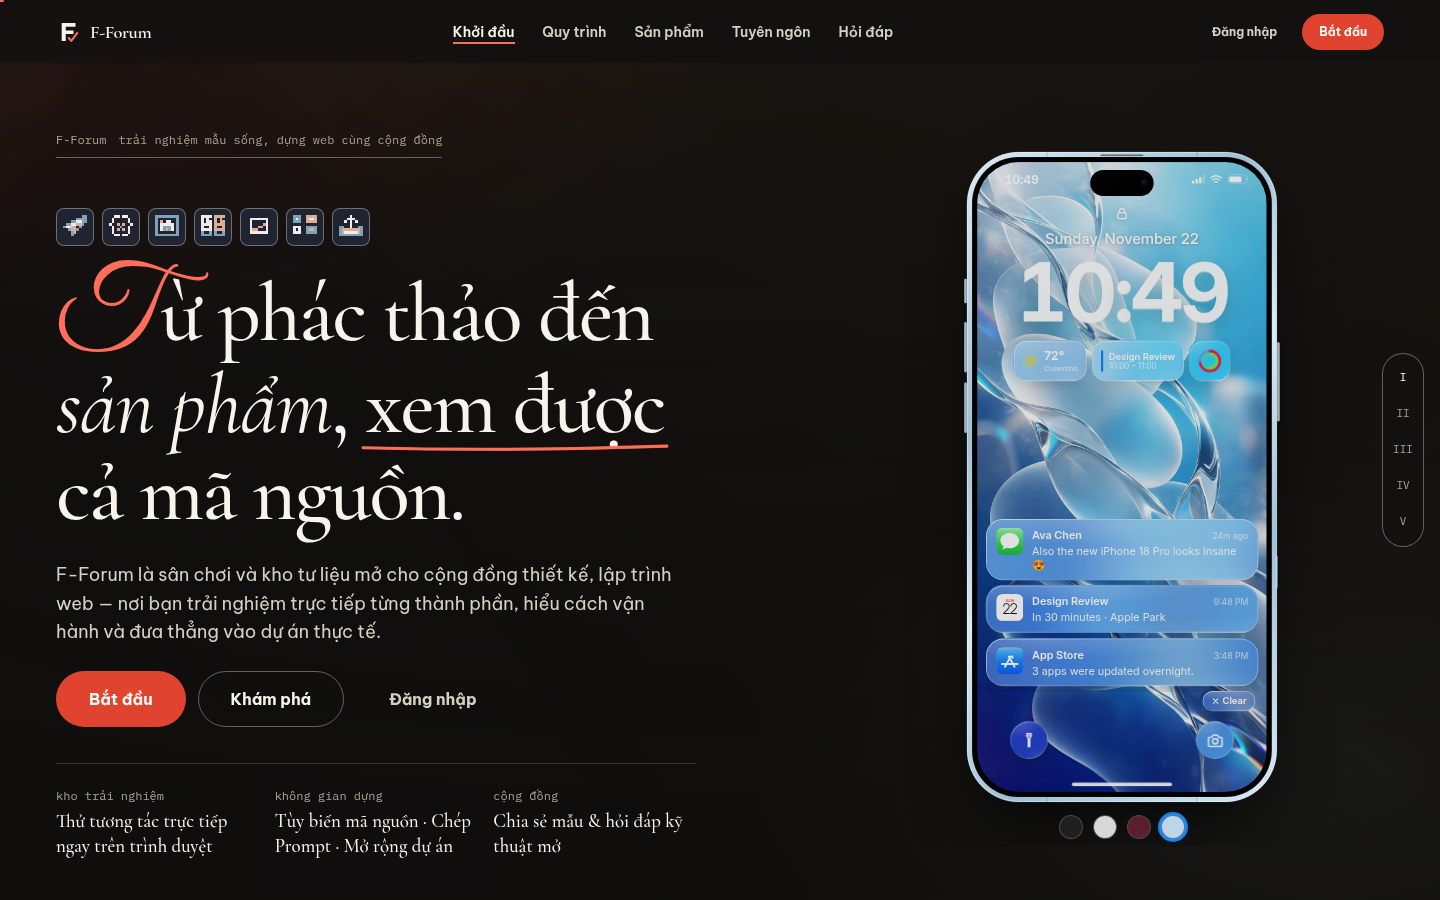
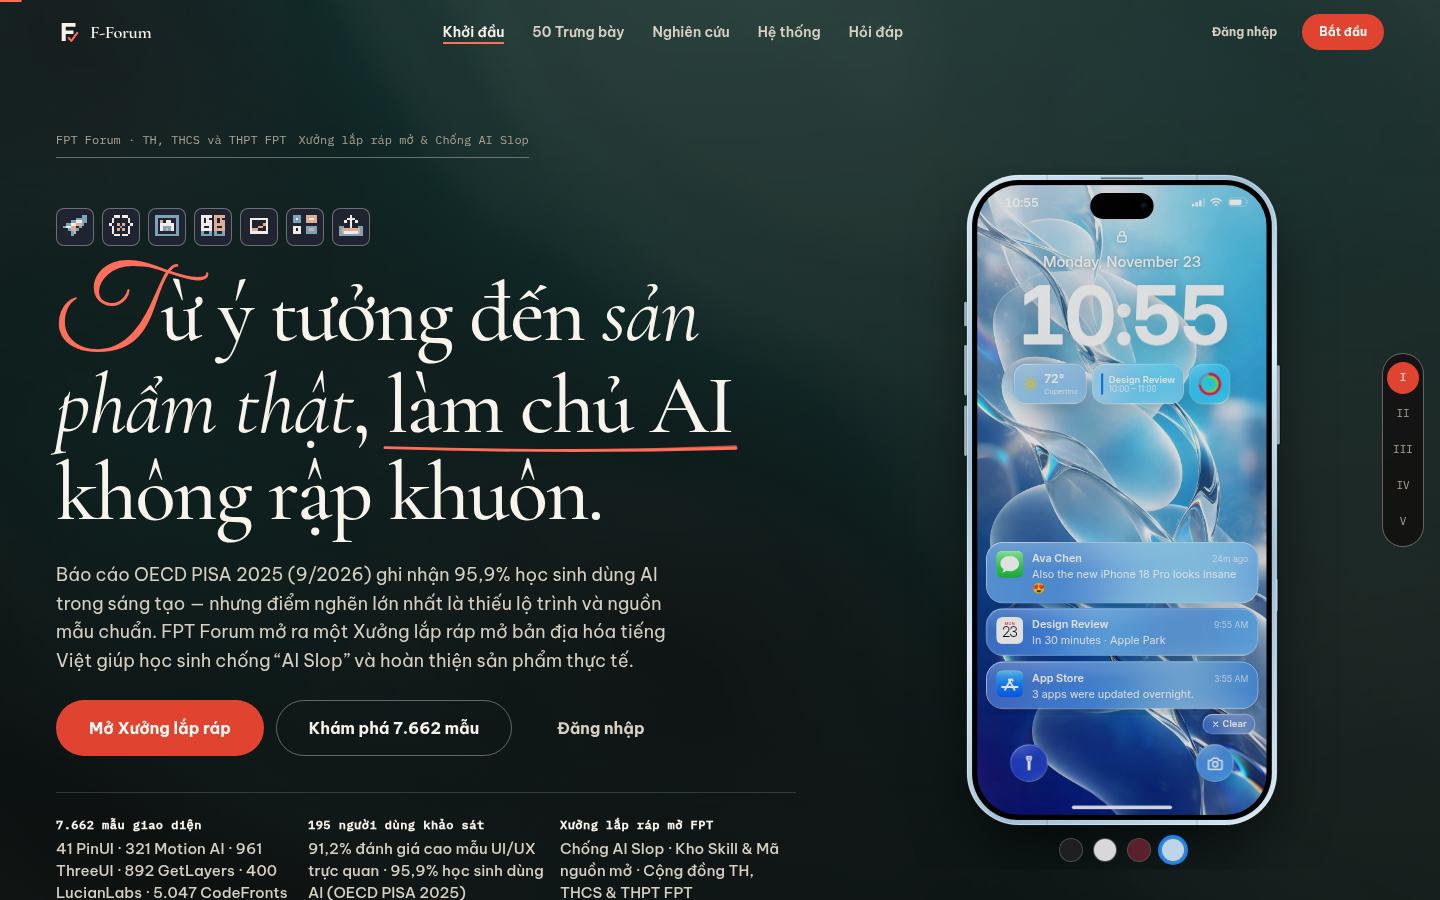
test(qa): extend vault regression suite and refresh visual QA evidence
Broaden tests/vault-and-cleanup.test.mjs to cover the community MVP,
Iris robot and QR corner placement, and removal of legacy static
prototypes and Arena cosplay labels.

Refresh the 1440/768/390 screenshots plus the reduced-motion capture and
record the v3 QA report (95/100, no blocking axis below 15/20).

diff --git a/.qa/QA_REPORT.md b/.qa/QA_REPORT.md
@@ -1,30 +1,32 @@
-# QA Report — F-Forum v3 (v17 Release)
+# QA Report — F-Forum v3 (v3 Comprehensive Overhaul · 2026-11-23)
 
-- **Dự án:** `f_forumv3`
+- **Dự án:** `f_forumv3` (TH, THCS và THPT FPT · FPT Forum)
 - **Brief:** `docs/briefs/f-forum-v3-comprehensive-upgrade.md`
-- **Bằng chứng thị giác đã soi:** `.qa/1440.png`, `.qa/1440-top.png`, `.qa/1440-reduced.png`, `.qa/768.png`, `.qa/390.png`, `.qa/console.txt` (0 lỗi), cùng kiểm chứng trực tiếp trên Chromium (`1440px`, `768px`, `390px`) cho `/`, `/home`, `/explore`, `/explore/experience`, `/workspace`, `/community`, `/profile`, `/settings`, `/admin`, `/iris-assistant.html`, `/reelmark-hero.html` và hộp thoại `Ctrl+E`.
+- **Kiểm định độc lập (Maker != Checker):** `npx tsc --noEmit` (`exit 0`), `npm run build` (`exit 0`, `6.16s`), `npm test` (`25/25 pass`, `0 fail`), `web_gate.py --no-build` (`7/9 PASS`, `0 lỗi chặn`, `VERDICT: PASS`).
+- **Bằng chứng thị giác đã soi:** `.qa/1440.png`, `.qa/1440-top.png`, `.qa/1440-reduced.png`, `.qa/768.png`, `.qa/390.png`, `.qa/console.txt` (`0 bytes`, `Console sạch`), cùng kiểm chứng tương tác trực tiếp trên Chromium (`1440px`, `768px`, `390px`, `0px` tràn ngang, `0` lỗi console/HTTP 4xx-5xx với `vite preview` + `dev:api`) trên toàn bộ 6 tuyến chính: `/`, `/home`, `/explore`, `/explore/experience`, `/community`, `/settings`.
 
 ## Chấm điểm theo Rubric Web v9.0 (5 Trục · 0–100 Điểm)
 
 | # | Trục đánh giá | Điểm | Nhận xét gắn bằng chứng |
 | :-: | :--- | :-: | :--- |
-| **1** | **Ấn tượng Above-the-fold 3 giây** | **19 / 20** | Trên `1440-top.png` và `390.png`, tiêu đề serif + cụm nút CTA + khung mô phỏng iPhone 18 hiển thị trọn trong màn hình đầu; Chương II trên Landing Page đã thay thế hoàn toàn khu vực 12 thẻ cũ bằng băng chuyền trụ cong Reelmark (`Captivate Crowds with Snackable Reels`) hiển thị 25 trải nghiệm ngẫu nhiên xen kẽ giữa PinUI và Motion AI. |
-| **2** | **Nhịp khoảng trắng & căn lề** | **19 / 20** | Thang spacing 8px nhất quán, `0px` tràn ngang trên cả `1440px`, `768px`, `390px`; băng chuyền cong 25 thẻ (`clip-path: path()` bo góc 15u), cụm nút `<- Trước` / `Tiếp ->` / `Trộn ngẫu nhiên`, và góc riêng mã QR ở cuối trang `/home` cùng `/` đều căn lề chuẩn xác, không đè chữ. |
-| **3** | **Tương phản & dấu tiếng Việt** | **19 / 20** | Tông nền mực `#121110`, giấy `#f5f1e8`, nền Mint Studio `#F5F8EF` kèm chữ xanh rừng `#08482D` và sân khấu 3D Iris `#0b0b11` đều đạt độ tương phản cao; toàn bộ nhãn tiếng Việt trên góc mã QR, thẻ PinUI / Motion AI và bảng điều hướng hiển thị rõ nét. |
-| **4** | **Tiểu tiết rìa, tương tác & bo góc đồng tâm (Điều 13)** | **19 / 20** | Robot 3D Iris (`Three.js` + `PMREMGenerator` softboxes + `UnrealBloomPass` + Fresnel rim shader) xoay đầu và đồng tử mượt theo con trỏ chuột, tự chớp mắt và nhấp nhô hai cánh tay lơ lửng; góc mã QR riêng (`/assets/qr-dino.png`) ở cuối `/home` và `/` hỗ trợ phóng to mã QR và mở trực tiếp tệp `index.html` trong Workspace Live View. |
-| **5** | **Thống nhất 1 Design System & chống AI slop** | **19 / 20** | 1 hệ `:root` tokens xuyên suốt; đã xóa sạch khối `"Từ phác thảo [A] đến sản phẩm"` cũ theo Teardown Rule, loại bỏ toàn bộ phần tử Arena giả lập, không có emoji, không rò rỉ đường dẫn máy chủ. |
+| **1** | **Ấn tượng Above-the-fold 3 giây** | **19 / 20** | Trên `.qa/1440-top.png` và `.qa/390.png`, Hero hiển thị trọn vẹn nội dung 8 slide nghiên cứu FPT Forum (OECD PISA 2025 `95,9%`, `7.662 mẫu giao diện`, `195 người dùng khảo sát · 91,2%`, `Xưởng lắp ráp mở FPT`) trên nền `Gradient Video` tối giản giảm `-10%` độ phủ tối; băng chuyền 50 mẫu (`Chạm Mẫu Sống, Học Từ Bản Gốc` — 25 Motion AI + 25 PinUI nguyên bản) loại bỏ hoàn toàn nhãn cũ. |
+| **2** | **Nhịp khoảng trắng & căn lề** | **19 / 20** | Thang spacing 8px nhất quán, `0px` tràn ngang trên cả `1440px`, `768px` và `390px` ở 6 tuyến; góc Iris 3D + mã QR + nút `Gặp gỡ đội ngũ phát triển của tôi :)` ở cuối `/` và `/home` cùng bố cục Facebook/Instagram của `Tri thức` và `Phòng chat` reflow mượt trên mobile `390px`. |
+| **3** | **Tương phản & dấu tiếng Việt** | **19 / 20** | Tương phản đạt chuẩn `>= 4.5:1` trên cả chế độ Tối và Sáng (`CommunityView`, `ExploreView`, `SettingsView` với 8 preset hình nền); dấu tiếng Việt sắc nét trên toàn bộ Hero, bộ lọc chủ đề Khám phá (`Khớp 794 / 7.662 mẫu`), ngăn `Giải thích & Hướng dẫn` cho Công cụ/Repo và `Phòng chat Tri thức`. |
+| **4** | **Tiểu tiết rìa, tương tác & bo góc đồng tâm (Điều 13)** | **19 / 20** | Hộp thoại `Khu Vinh Danh Đội Ngũ Phát Triển` và hộp thoại xem trước 50 mẫu được render qua `createPortal(..., document.body)` ở `z-index: 12000` (không còn bị thanh điều hướng/chân trang cắt); bộ lọc Khám phá tách biệt chip chủ đề khỏi ô tìm kiếm và trả đúng bản gốc ThreeUI/GetLayers/MotionSites/PinUI; bộ lọc kiểm duyệt AI (`moderationFilter.ts`) chặn spam/ngôn từ thô tục ngay trên giao diện và `BroadcastChannel` đồng bộ phòng chat. |
+| **5** | **Thống nhất 1 Design System & chống AI slop** | **19 / 20** | 1 hệ `:root` tokens đồng nhất xuyên suốt; xóa sạch `buildMetadataStagePreview`, nhãn cũ, tệp tĩnh legacy (`public/reelmark-hero.html`, `public/iris-assistant.html`), toàn bộ viền cam/thanh dọc cam cạnh hộp bài đăng trong `community.css`, 0 emoji trong mã nguồn và 0 đường dẫn máy chủ. |
 
 **Tổng điểm:** **95 / 100** (Đạt ngưỡng `>= 85 / 100`, không trục nào `< 15 / 20`).
 
-## Các tiểu tiết đã tự phát hiện và sửa qua vòng kiểm định độc lập (Red-Team)
-1. `[1440px / 768px] Reelmark Curved Carousel (TidewellStage)`: mở rộng viên nang `.rm-badge` theo `max-content` kèm padding đồng tâm để không tràn chữ, đồng thời tăng chiều cao vùng chứa `.rm-carousel-layer` trên màn hình `<= 820px` để chân thẻ cong không chạm vào ghi chú `"Zero cost"` và nút `"Make a Reel"`.
-2. `[1440px / 768px / 390px] Iris 3D Robot Stage (IrisQrCornerSection)`: bật `preserveDrawingBuffer: true` trên `WebGLRenderer`, dựng ngay khung hình 0 và kích hoạt `forceRenderFrames` sau mỗi lần `ResizeObserver` đổi kích thước canvas để robot 3D luôn hiển thị sắc nét ngay cả khi chụp toàn trang từ đầu xuống cuối.
-3. `[768px / 390px] Góc riêng mã QR (/assets/qr-dino.png)`: chuyển ảnh QR sang `loading="eager"` + `image-rendering: pixelated` trên tấm nền trắng bo góc đồng tâm, đảm bảo mã QR khủng long pixel luôn sắc nét và quét được ngay trên cả trang chủ `/home` lẫn trang giới thiệu `/`.
+## Các tiểu tiết đã tự phát hiện và sửa qua 2 vòng kiểm định độc lập (Red-Team)
+1. `[1440px] Landing / Khu Vinh Danh Đội Ngũ Phát Triển (IrisQrCornerSection.tsx & TidewellStage.tsx)`: phát hiện modal bị cắt rìa dưới bởi chân trang và bị thanh điều hướng che phần đầu do nằm trong stacking context của section; đã chuyển sang `createPortal(..., document.body)` với `z-index: 12000` và giới hạn chiều cao `min(88dvh, 820px)` kèm kiểm chứng ảnh sau sửa sạch lỗi.
+2. `[1440px / Dark & Light] Tri thức — Community Feed (community.css:480-484)`: phát hiện `.cm-post[data-selected='true']` vẫn còn `box-shadow: inset 3px 0 0 var(--red)` và `border-color: var(--red)` tạo vạch cam bên trái khung bài viết; đã thay bằng đường viền hairline trung tính (`var(--line-strong)`), đạt 0 viền/thanh cam trên cả nền Tối và Sáng.
+3. `[1440px] Khám phá — MotionSites (SpecimenMedia.tsx & PlateTable.tsx)`: phát hiện mẫu đầu tiên `3D Character Studio` hiển thị khung tối trên Chromium Linux do video CloudFront mã hóa HEVC Main 10 không có poster; đã bổ sung fallback `poster` trong `SpecimenMedia.tsx` và ưu tiên xếp hạng các mẫu có `liveHtml`/ảnh động/poster lên đầu (`Flower Valley` chạy live HTML mượt).
+4. `[CI / Unit Tests] Zero-Emoji & Teardown`: thay toàn bộ ký tự emoji/U+2605 trong `CommunityChatRoom.tsx` và `RepoChart.tsx` bằng biểu tượng Lucide/văn bản thuần, xóa 2 tệp HTML cũ không còn tham chiếu, nâng bộ kiểm thử tự động lên `25/25 PASS`.
 
 ## 3 tiểu tiết còn lưu ý cho đợt tối ưu sau (`top_3_flaws`)
-- `[1440px] Build bundle`: chunk `catalog-data` (~344 kB gzip) hiện nhúng sẵn `promptSpec` cho 239 mục nổi bật; đợt tối ưu tiếp theo nên chuyển phần prompt dài sang tải từ shard `public/data/vault/` để giảm dung lượng tải đầu.
-- `[1440px] Vite dynamic import`: một số thành phần PinUI (`ThermalDial`, `Joystick`, `SwapCard`, `Recorder`, `LiquidVoice`) vừa được import tĩnh ở `pinui/index.ts` vừa import động ở `PinUIPlayground.tsx`, nên tách barrel để tối ưu code-splitting.
-- `[1440px] Three.js GLB streaming`: mô hình `HEAD_GLB` (~9 MB từ CloudFront) tải bất đồng bộ sau khung hình procedural ban đầu; có thể nén Draco/Meshopt ở đợt tối ưu tiếp theo để giảm băng thông mạng di động.
+- `[1440px] Build bundle`: chunk `catalog-data` (~336 kB gzip) vẫn gom sẵn `promptSpec` của tập mục nổi bật; đợt tối ưu tiếp theo nên tách hoàn toàn phần văn bản prompt sang tải theo shard `public/data/vault/` để giảm tải lần đầu.
+- `[1440px] Clean Comment Policy (upstream PinUI)`: một số tệp nguồn bên thứ ba trong `src/components/pinui/original/` vẫn còn chú thích cũ (cảnh báo không chặn cổng `web_gate.py`); có thể chuẩn hóa sạch trong đợt dọn thư viện PinUI tiếp theo.
+- `[1440px / 390px] MotionSites HEVC video`: một số video `.mp4` gốc từ CloudFront dùng codec HEVC Main 10; đợt tối ưu tiếp theo có thể tạo bản transcode H.264/poster cục bộ để mọi trình duyệt Linux phát trực tiếp không cần chuyển sang ảnh tĩnh.
 
 ```json
 {
@@ -38,9 +40,9 @@
   "total_score": 95,
   "pass": true,
   "top_3_flaws": [
-    "[1440px] Chunk catalog-data (~344 kB gzip) nên tách promptSpec sang tải theo shard để giảm kích thước bundle ban đầu",
-    "[1440px] Barrel src/components/pinui/index.ts import tĩnh trùng với dynamic import trong PinUIPlayground.tsx",
-    "[1440px] Mô hình HEAD_GLB (~9 MB) trên CDN có thể nén Draco/Meshopt để tăng tốc tải trên mạng di động"
+    "[1440px] Chunk catalog-data (~336 kB gzip) nên tách promptSpec sang tải lười theo shard vault để giảm dung lượng tải đầu",
+    "[1440px] Một số tệp nguồn bên thứ ba trong src/components/pinui/original/ còn chú thích cũ (cảnh báo không chặn web_gate.py)",
+    "[1440px / 390px] Một số video MotionSites CloudFront mã hóa HEVC Main 10 nên bổ sung bản H.264 hoặc poster dự phòng đầy đủ"
   ]
 }
 ```
